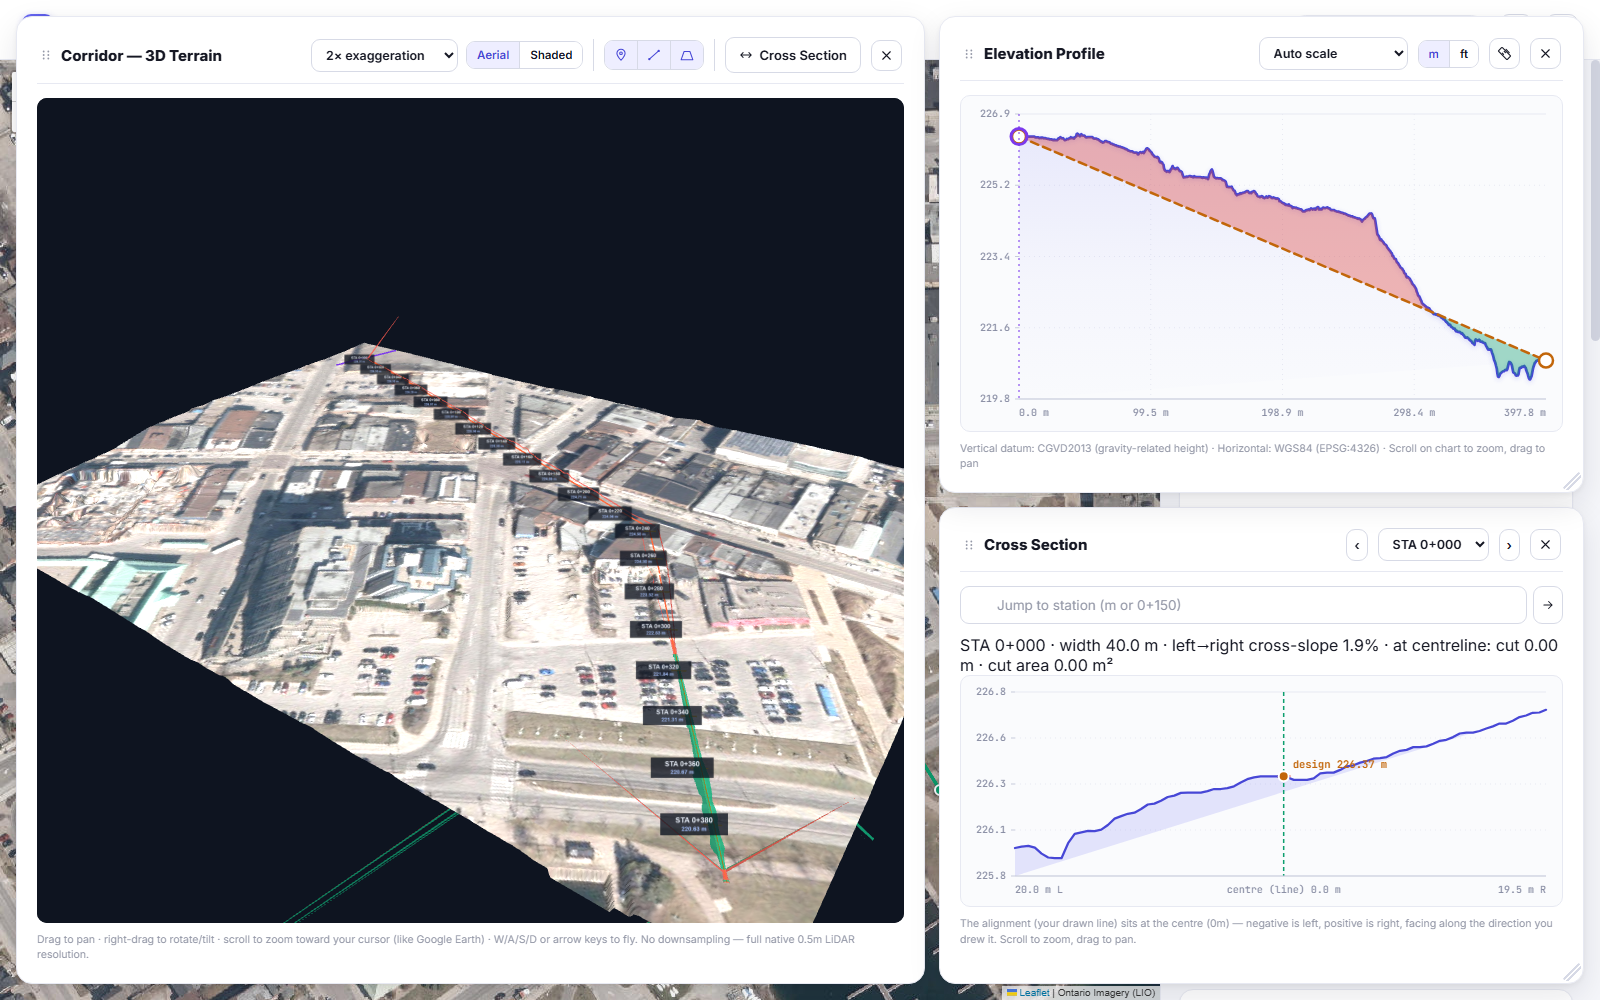
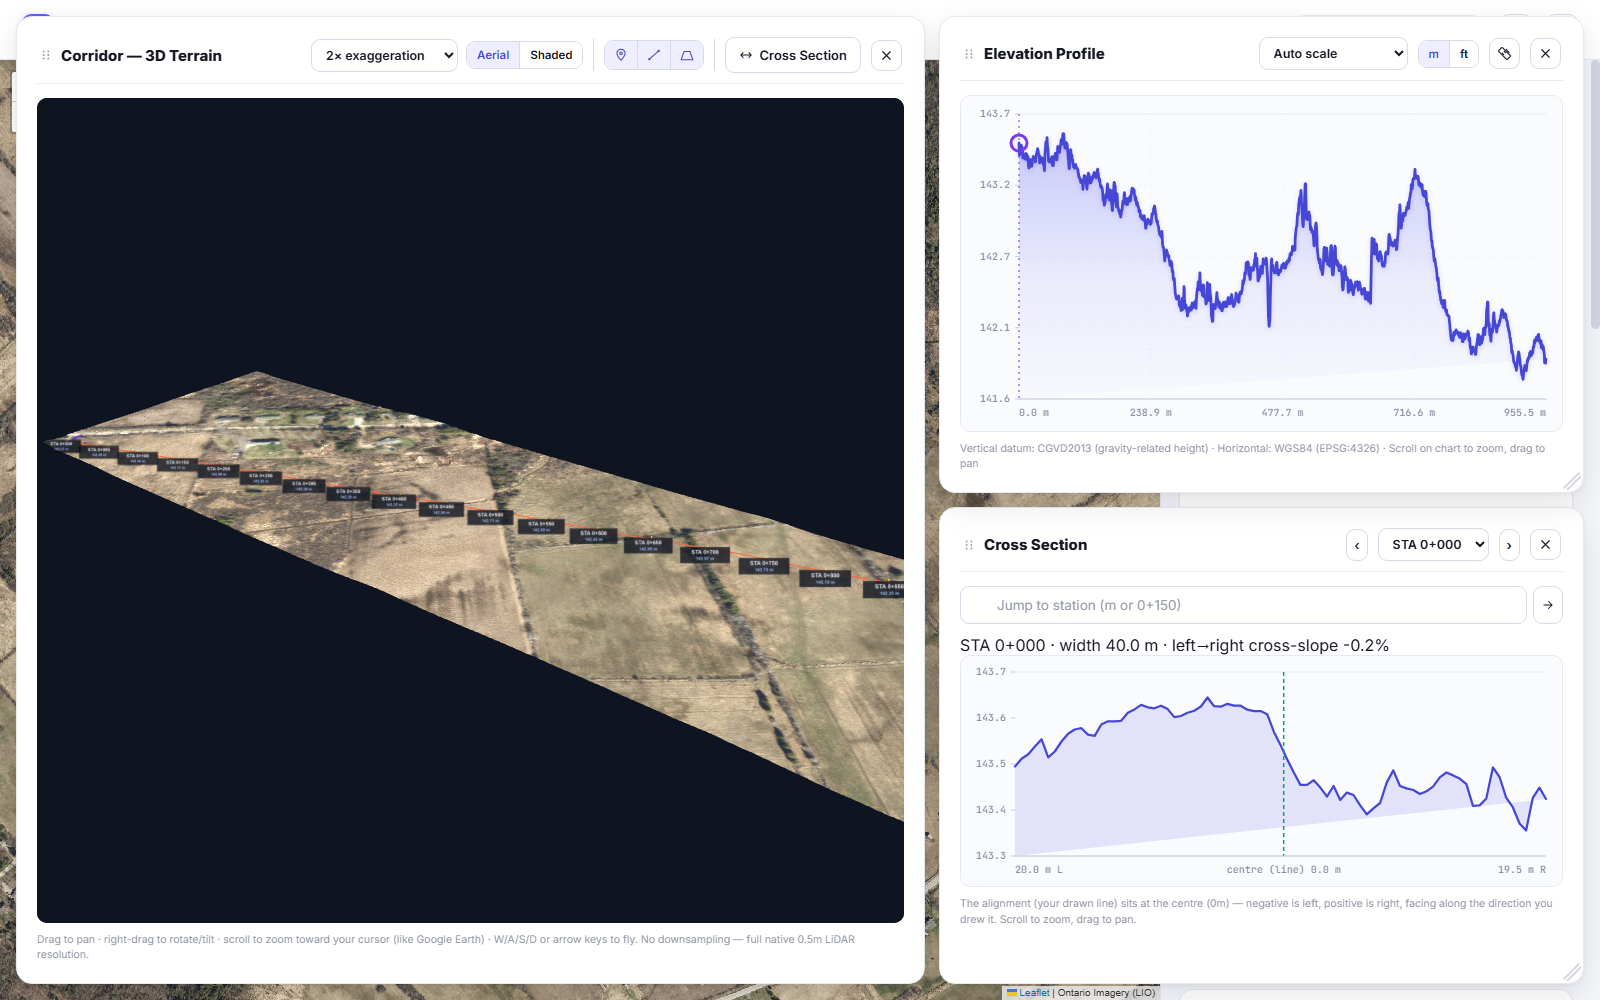
Refresh README screenshots with a real rural road near Perth, ON
Hero screenshot now shows the tiled 3D Terrain/Elevation Profile/Cross
Section workspace over an actual rural road corridor near Perth,
Ontario, instead of the previous urban parking-lot example - a more
representative showcase for a tool aimed at rural drainage/road work.

Added a second screenshot of the PDF report's Location Plan sheet on
the same road, showing off the title block, scale bar, north arrow,
and stationing from the recent drawing-standards work.

diff --git a/README.md b/README.md
@@ -2,7 +2,7 @@
 
 **Draw a line on a map. Get its real ground elevation profile, a 3D terrain view, and cross-sections — built on Ontario's free public LiDAR.**
 
-![Contour — 3D Terrain, Elevation Profile, and Cross Section open together](docs/screenshot.png)
+![Contour — 3D Terrain, Elevation Profile, and Cross Section open together over a rural road near Perth, Ontario](docs/screenshot.png)
 
 ## What it does
 
@@ -29,8 +29,10 @@ No installation, no account, no build step. It's one HTML file that runs entirel
 
 **Export**
 - LiDAR corridor export as a georeferenced GeoTIFF
-- Combined PDF report (map, chart, stats, cross-sections)
+- Combined PDF report — location plan, plan & profile, cross-sections, and a real engineering title block (scale, stationing, north arrow, revisions)
 - Save/reopen a project as a `.json` file
+
+![Contour's PDF report — Location Plan sheet with north arrow, scale bar, stationing, and a full title block](docs/screenshot-report.png)
 
 **Onboarding**
 - A short first-run tutorial for new users, reachable anytime from the header
